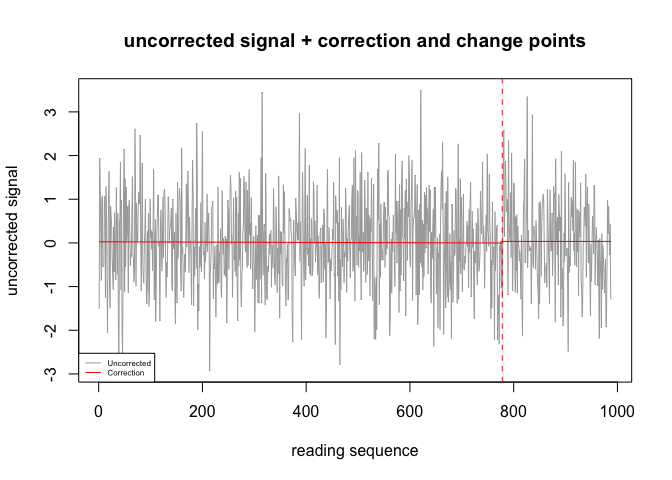
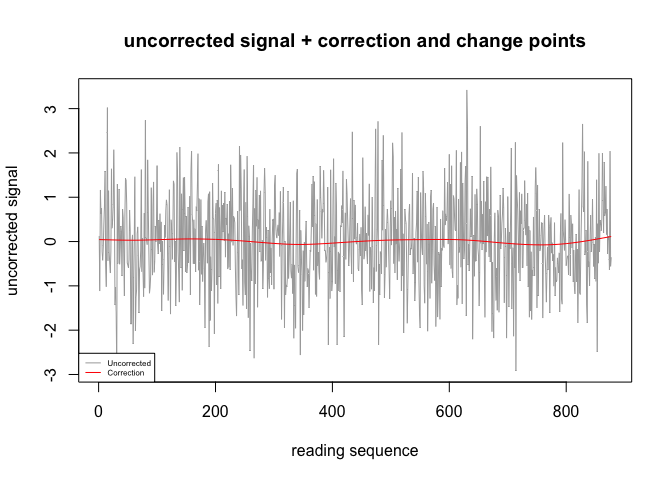
Adding new vignette and updating readme for winn too.

diff --git a/README.md b/README.md
@@ -1,16 +1,25 @@
+
 <!-- README.md is generated from README.Rmd. Please edit that file -->
 
 # changomics
 
 <!-- badges: start -->
-
 <!-- badges: end -->
 
-The goal of changomics is to correct a data set of metabolites that has been distorted during the data gathering. It detects automatically through dynamic programming the change points in time series and then residualize, detrend and normalize the time series of metabolites.
+The goal of changomics is to correct a data set of metabolites that has
+been distorted during the data gathering. There are two different
+function in it.The first one (changomics) detects automatically through
+dynamic programming the change points in time series and then
+residualize, detrend and normalize the time series of metabolites. The
+second one uses the plates information to correct to correct the
+distorted time series. Both correct the time series in a very similar
+way but on estimates the change points and one consider change points
+coincide with plates boundaries.
 
 ## Installation
 
-You can install the development version of changomics from [GitHub](https://github.com/) with:
+You can install the development version of changomics from
+[GitHub](https://github.com/) with:
 
 ``` r
 # install.packages("devtools")
@@ -19,7 +28,9 @@ devtools::install_github("antoinejeanrenaud/changomics")
 
 ## Example
 
-This is a basic example which shows how to use the changomics function. This example allows to correct for the two metabolites in the data set met.df.
+This is a basic example which shows how to use the changomics function.
+This example allows to correct for the two metabolites in the data set
+met.df.
 
 ``` r
 library(changomics)
@@ -29,7 +40,10 @@ data(met.df)
 corrected<-changomics(as.data.frame(met.df),graph=FALSE)
 ```
 
-There is a parameter "graph" which allow to plot the change points found in the data sequence and show how it is detrended. When set to TRUE it will produce a plot for the first metabolite of the data set to be corrected.
+There is a parameter “graph” which allow to plot the change points found
+in the data sequence and show how it is detrended. When set to TRUE it
+will produce a plot for the first metabolite of the data set to be
+corrected.
 
 ``` r
 library(changomics)
@@ -40,9 +54,11 @@ met1<-as.data.frame(met.df$met1)
 corrected<-changomics(met1,graph=TRUE)
 ```
 
-<img src="man/figures/README-example_2-1.png" width="100%"/>
+<img src="man/figures/README-example_2-1.png" width="100%" />
 
-Here we have a metabolite that is not distorted, so the function changomics is not really correcting it. The algorithm has found a change point, but this can happen when there are outliers.
+Here we have a metabolite that is not distorted, so the function
+changomics is not really correcting it. The algorithm has found no
+change point which is correct.
 
 ``` r
 library(changomics)
@@ -53,6 +69,52 @@ met2<-as.data.frame(met.df$met2)
 corrected<-changomics(met2,graph=TRUE)
 ```
 
-<img src="man/figures/README-example_3-1.png" width="100%"/>
+<img src="man/figures/README-example_3-1.png" width="100%" />
 
-This time the signal was distorted and we see the change points estimated and the correction applied. Of course, the algorithm is probably not recovering each change point perfectly, but in the end the correlation with the original non distorted time series is the most important.
+This time the signal was distorted and we see the change points
+estimated and the correction applied. Of course, the algorithm is
+probably not recovering each change point perfectly, but in the end the
+correlation with the original non distorted time series is the most
+important. We can also have a look on how to use the winn function. The
+only difference in use is that you also have to specify the places of
+change in plate in an ordered vector.
+
+``` r
+library(changomics)
+# Load the data of metabolites
+data(met.df)
+# Use winn to correct the metabolites
+corrected<-winn(as.data.frame(met.df),c(53,105,177,274,330,415,519,605,688,771),graph=FALSE)
+```
+
+There is a parameter “graph” which allow to plot the plates in the data
+sequence and show how it is detrended. When set to TRUE it will produce
+a plot for the first metabolite of the data set to be corrected.
+
+``` r
+library(changomics)
+# Load the data of metabolites
+data(met.df)
+# Use winn to correct the metabolites
+met1<-as.data.frame(met.df$met1)
+corrected<-winn(met1,c(53,105,177,274,330,415,519,605,688,771),graph=TRUE)
+```
+
+<img src="man/figures/README-example_5-1.png" width="100%" /> Here we
+have a metabolite that is not distorted, so the function winn is not
+really correcting it. Let’s now have a look at a simnulated metabolite
+with batch effects and drifts.
+
+``` r
+library(changomics)
+# Load the data of metabolites
+data(met.df)
+# Use winn to correct the metabolites
+met2<-as.data.frame(met.df$met2)
+corrected<-winn(met2,c(53,105,177,274,330,415,519,605,688,771),graph=TRUE)
+```
+
+<img src="man/figures/README-example_6-1.png" width="100%" /> The plates
+are displayed, the correction applied is displayed. The time series
+displayed here is different than with the changomics function because
+there is an additional step before detrending.
